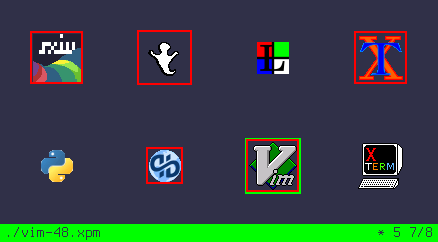
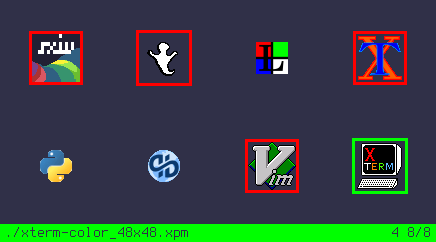
Made mark symmetric

diff --git a/thumbs.c b/thumbs.c
@@ -474,7 +474,7 @@ void tns_mark(tns_t *tns, int n, bool mark)
 
         if (mark) col = win->markcol.pixel;
         win_draw_rect(win, t->x - oxy, t->y - oxy, t->w + owh, t->h + owh,
-                      false, tns->bw - 1, col);
+                      false, tns->bw, col);
 
 		if (!mark && n == *tns->sel)
 			tns_highlight(tns, n, true);

diff --git a/README.md b/README.md
@@ -6,8 +6,8 @@ Changes
 -------
 
 * If a single image argument is given, the image is displayed as
-expected, but all other images in the directory are also loaded. 
-[(#352)](https://github.com/muennich/sxiv/issues/352).
+expected, but all other images in the directory are also loaded for 
+navigation [(#352)](https://github.com/muennich/sxiv/issues/352).
 
     * If more than one argument is given, then only the specified files
     and directories are loaded, as in mainstream Sxiv.
@@ -22,3 +22,9 @@ can be changed via `mark` X-resource. Incorporated from
 overriden via `background` and `foreground` X-resources.
 
 * Escape key can be mapped in `config.h`.
+
+Install
+-------
+
+    $ make
+    # make install
